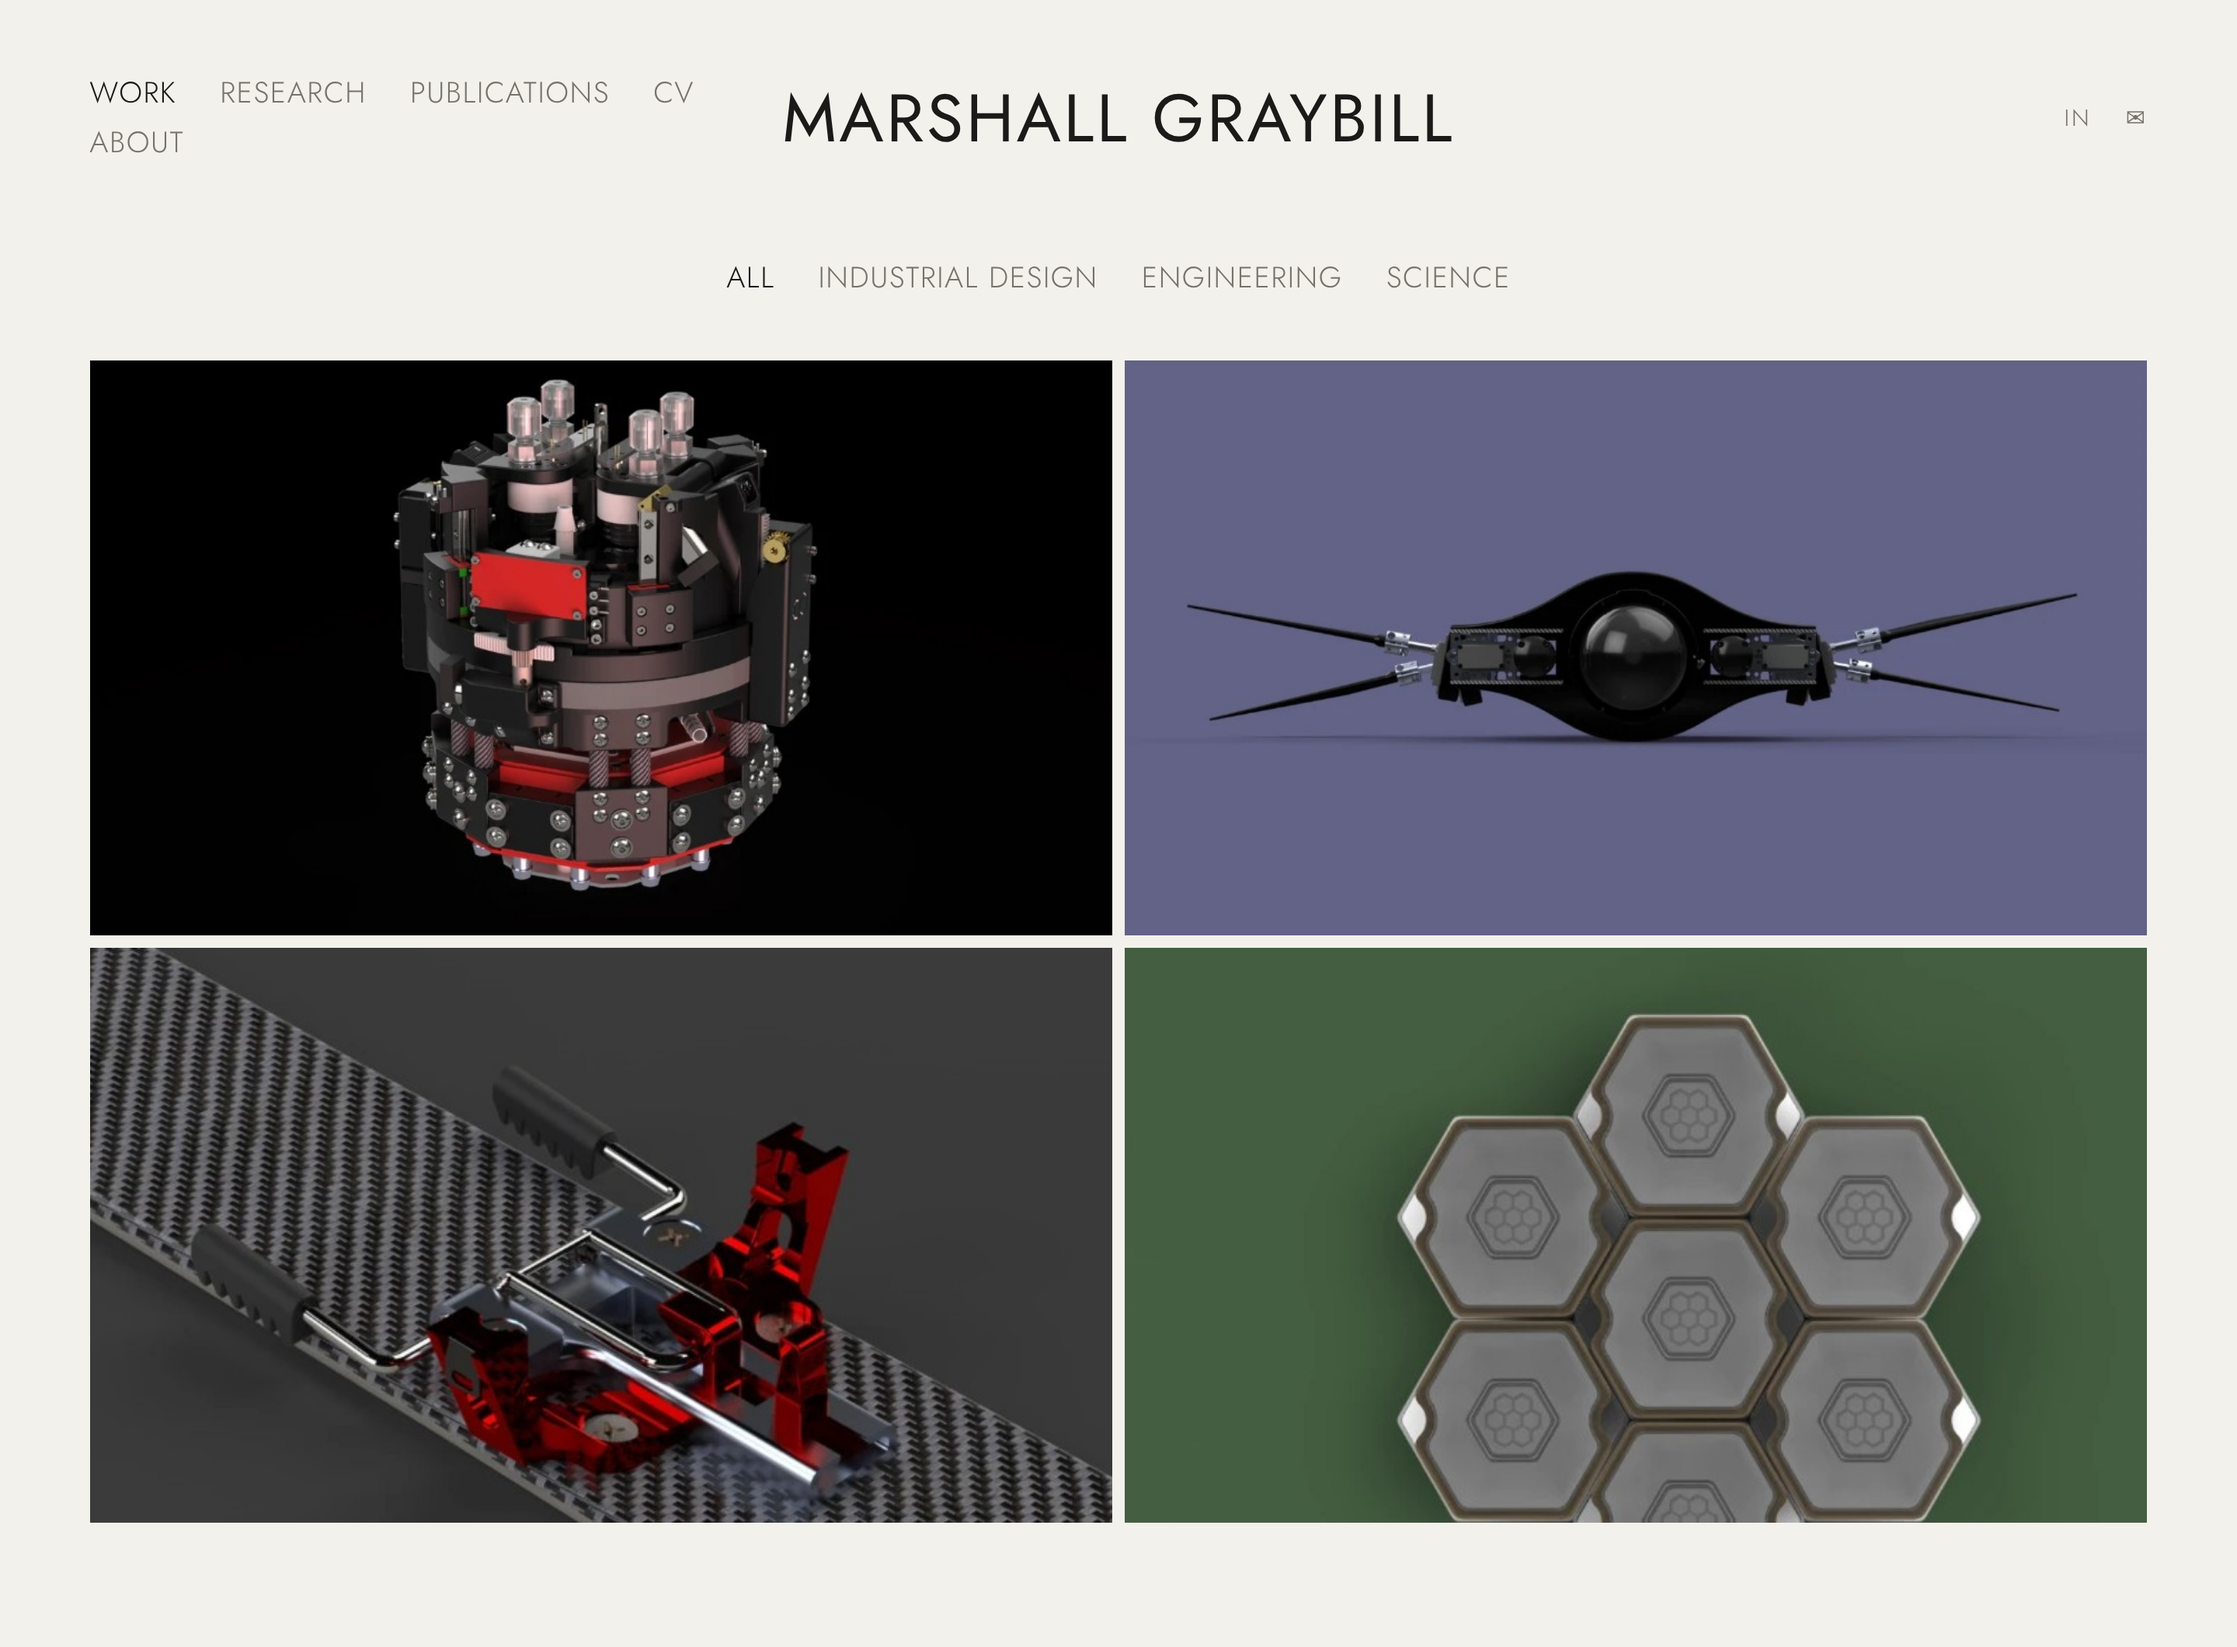
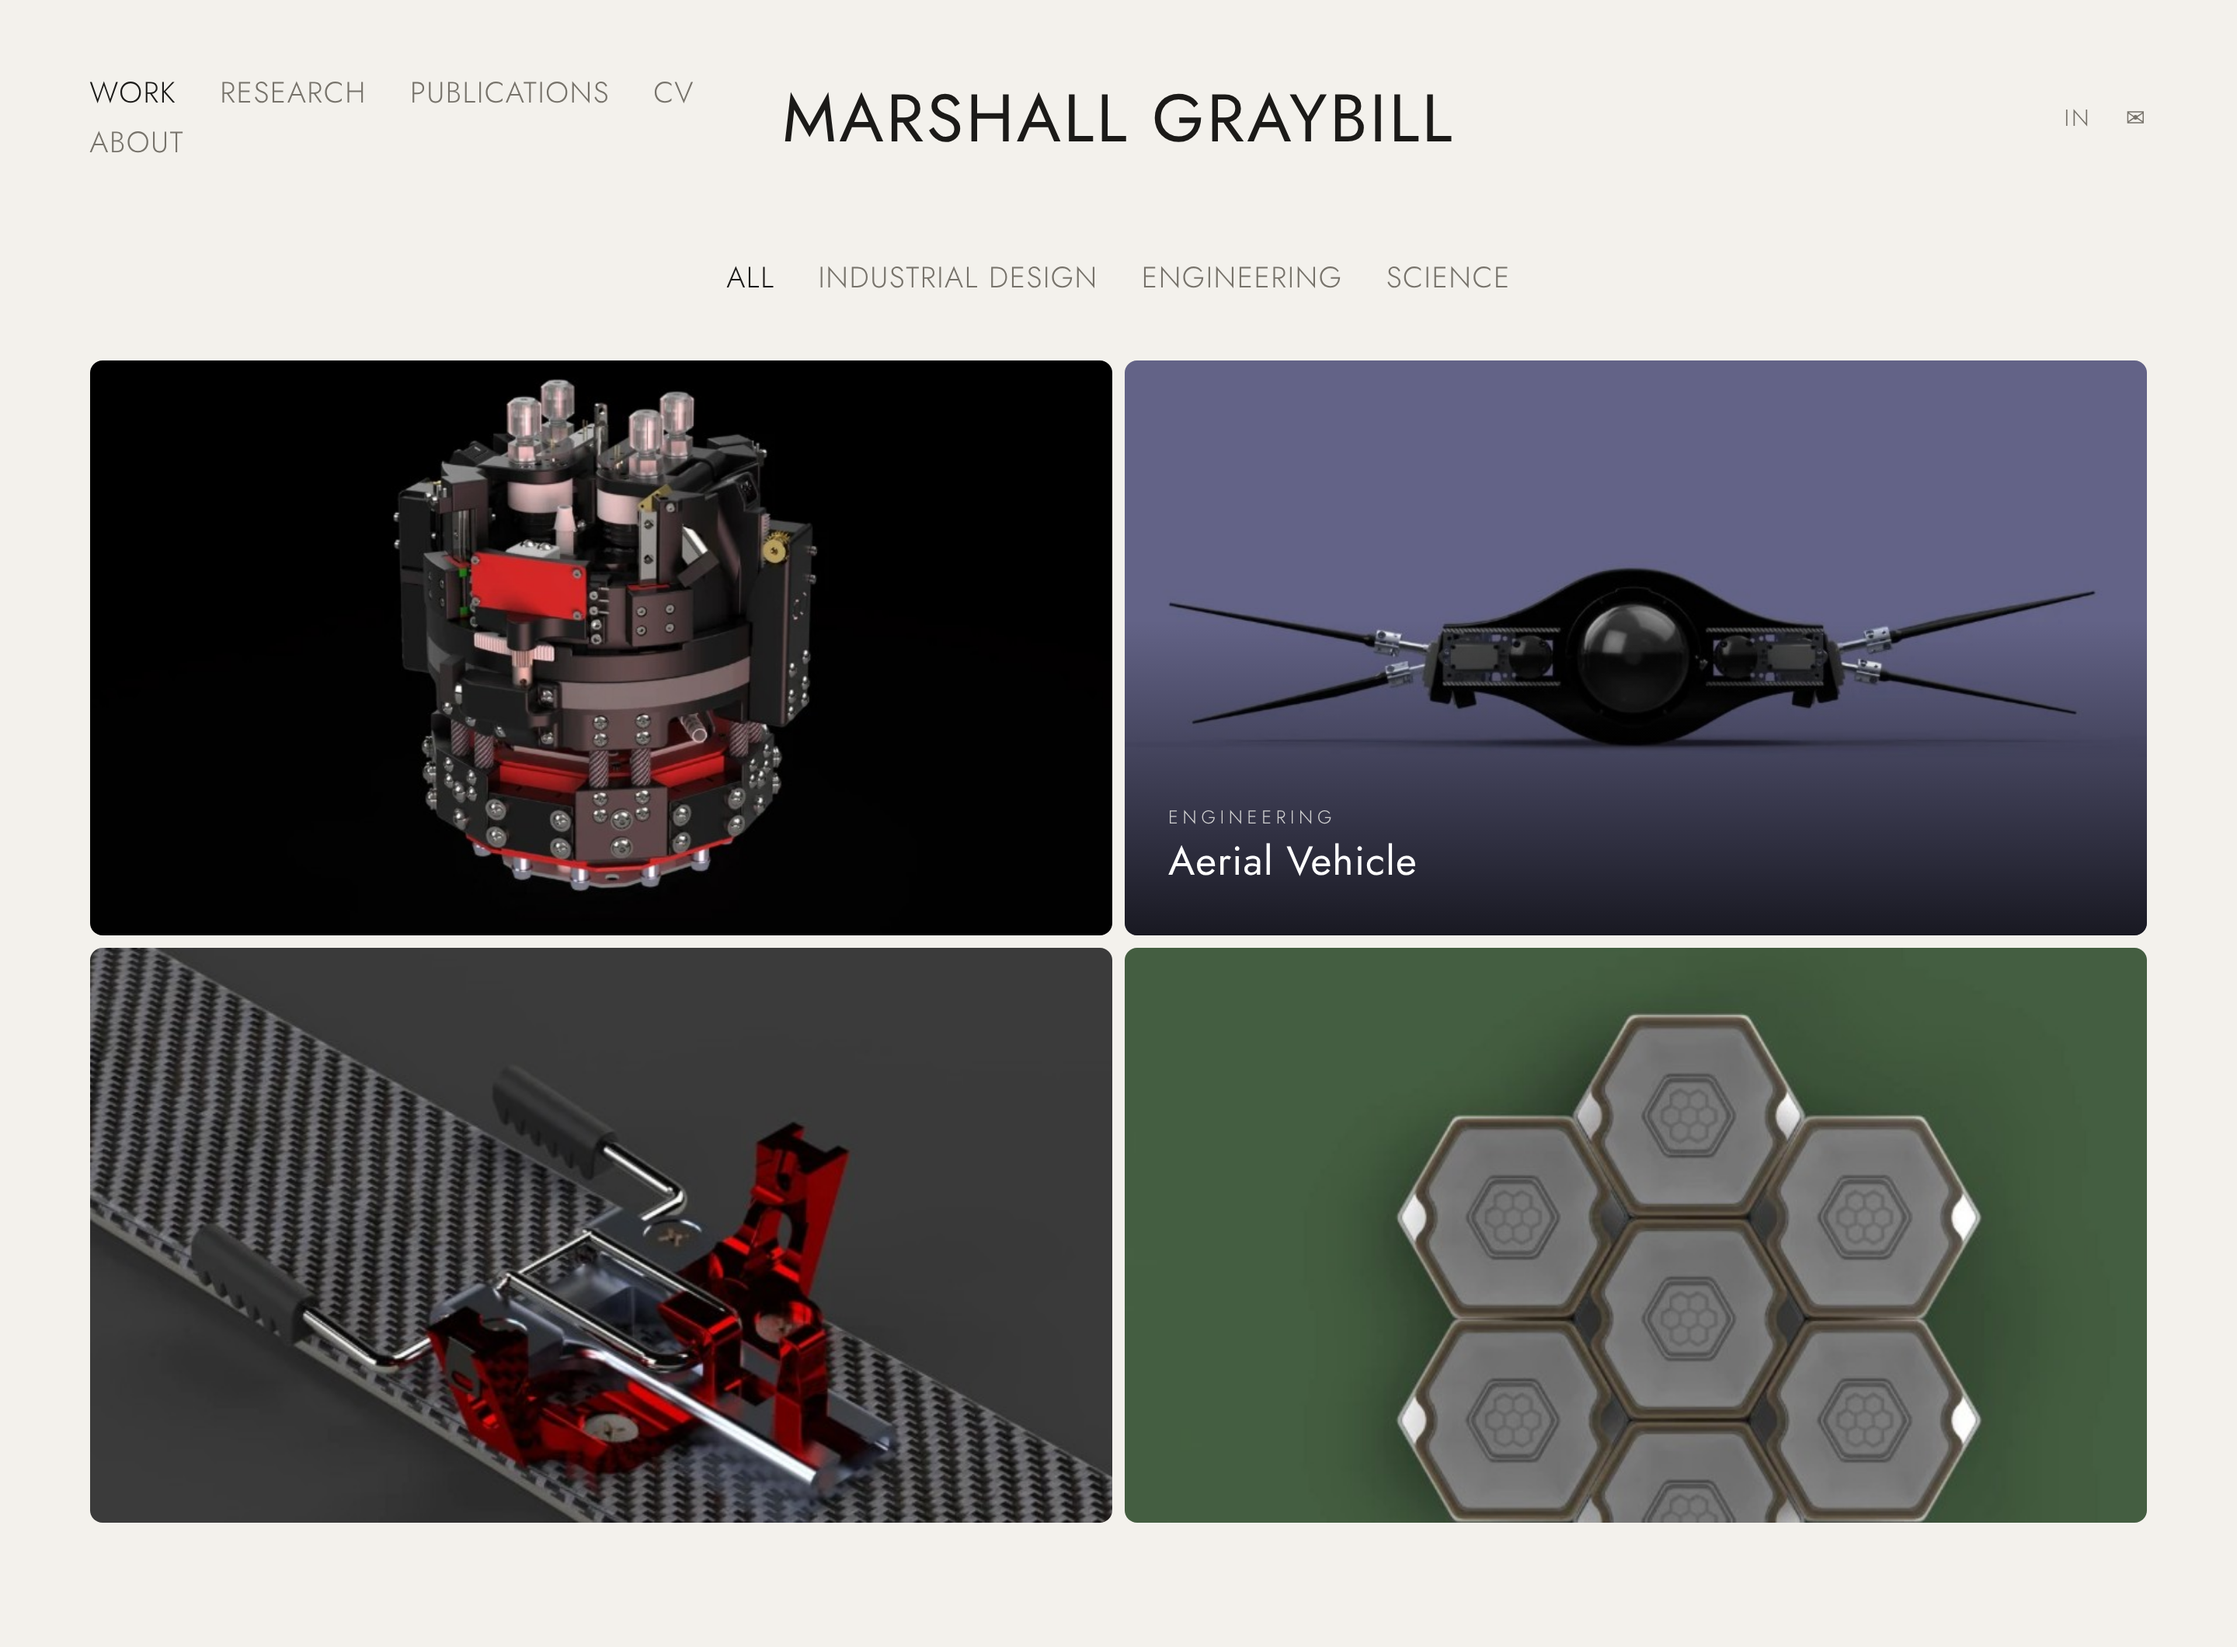
Off-white concept: rounded tiles, fix caption colour on light themes
Claude-Session: https://claude.ai/code/session_01FRyJPBebUtKmxdzujR9oGm

Changed region(s): [[0.5, 0.3425, 0.9688, 0.5915], [0.9062, 0.3425, 0.9375, 0.3736]]

diff --git a/mockups/a-gallery-offwhite.html b/mockups/a-gallery-offwhite.html
@@ -21,13 +21,13 @@
   .filters button.on, .filters button:hover { color:var(--ink); }
   .tile.hide { display:none; }
   .grid { display:grid; grid-template-columns:repeat(2,1fr); gap:var(--gap); padding:0 clamp(16px,4vw,80px) 80px; }
-  .tile { position:relative; aspect-ratio:16/9; overflow:hidden; background:var(--tile); }
+  .tile { position:relative; aspect-ratio:16/9; overflow:hidden; background:var(--tile); border-radius:8px; }
   .tile img { width:100%; height:100%; object-fit:cover; transition:transform .8s cubic-bezier(.2,.7,.2,1), filter .5s; }
   .tile .cap { position:absolute; inset:0; display:flex; flex-direction:column; justify-content:flex-end; padding:28px;
     background:linear-gradient(transparent 45%, rgba(0,0,0,.75)); opacity:0; transition:opacity .4s; }
   .tile:hover img { transform:scale(1.04); }
   .tile:hover .cap, .tile.demo .cap { opacity:1; }
-  .cap h3 { margin:0; font-size:26px; font-weight:400; letter-spacing:.02em; }
+  .cap h3 { margin:0; color:#fff; font-size:26px; font-weight:400; letter-spacing:.02em; }
   .cap span { font-size:12px; letter-spacing:.24em; text-transform:uppercase; color:#cfcfcf; }
   @media (max-width:760px){
     header { grid-template-columns:1fr; text-align:center; } nav, .icons { justify-content:center; justify-self:center; }

diff --git a/mockups/a-gallery-white.html b/mockups/a-gallery-white.html
@@ -27,7 +27,7 @@
     background:linear-gradient(transparent 45%, rgba(0,0,0,.75)); opacity:0; transition:opacity .4s; }
   .tile:hover img { transform:scale(1.04); }
   .tile:hover .cap, .tile.demo .cap { opacity:1; }
-  .cap h3 { margin:0; font-size:26px; font-weight:400; letter-spacing:.02em; }
+  .cap h3 { margin:0; color:#fff; font-size:26px; font-weight:400; letter-spacing:.02em; }
   .cap span { font-size:12px; letter-spacing:.24em; text-transform:uppercase; color:#cfcfcf; }
   @media (max-width:760px){
     header { grid-template-columns:1fr; text-align:center; } nav, .icons { justify-content:center; justify-self:center; }
